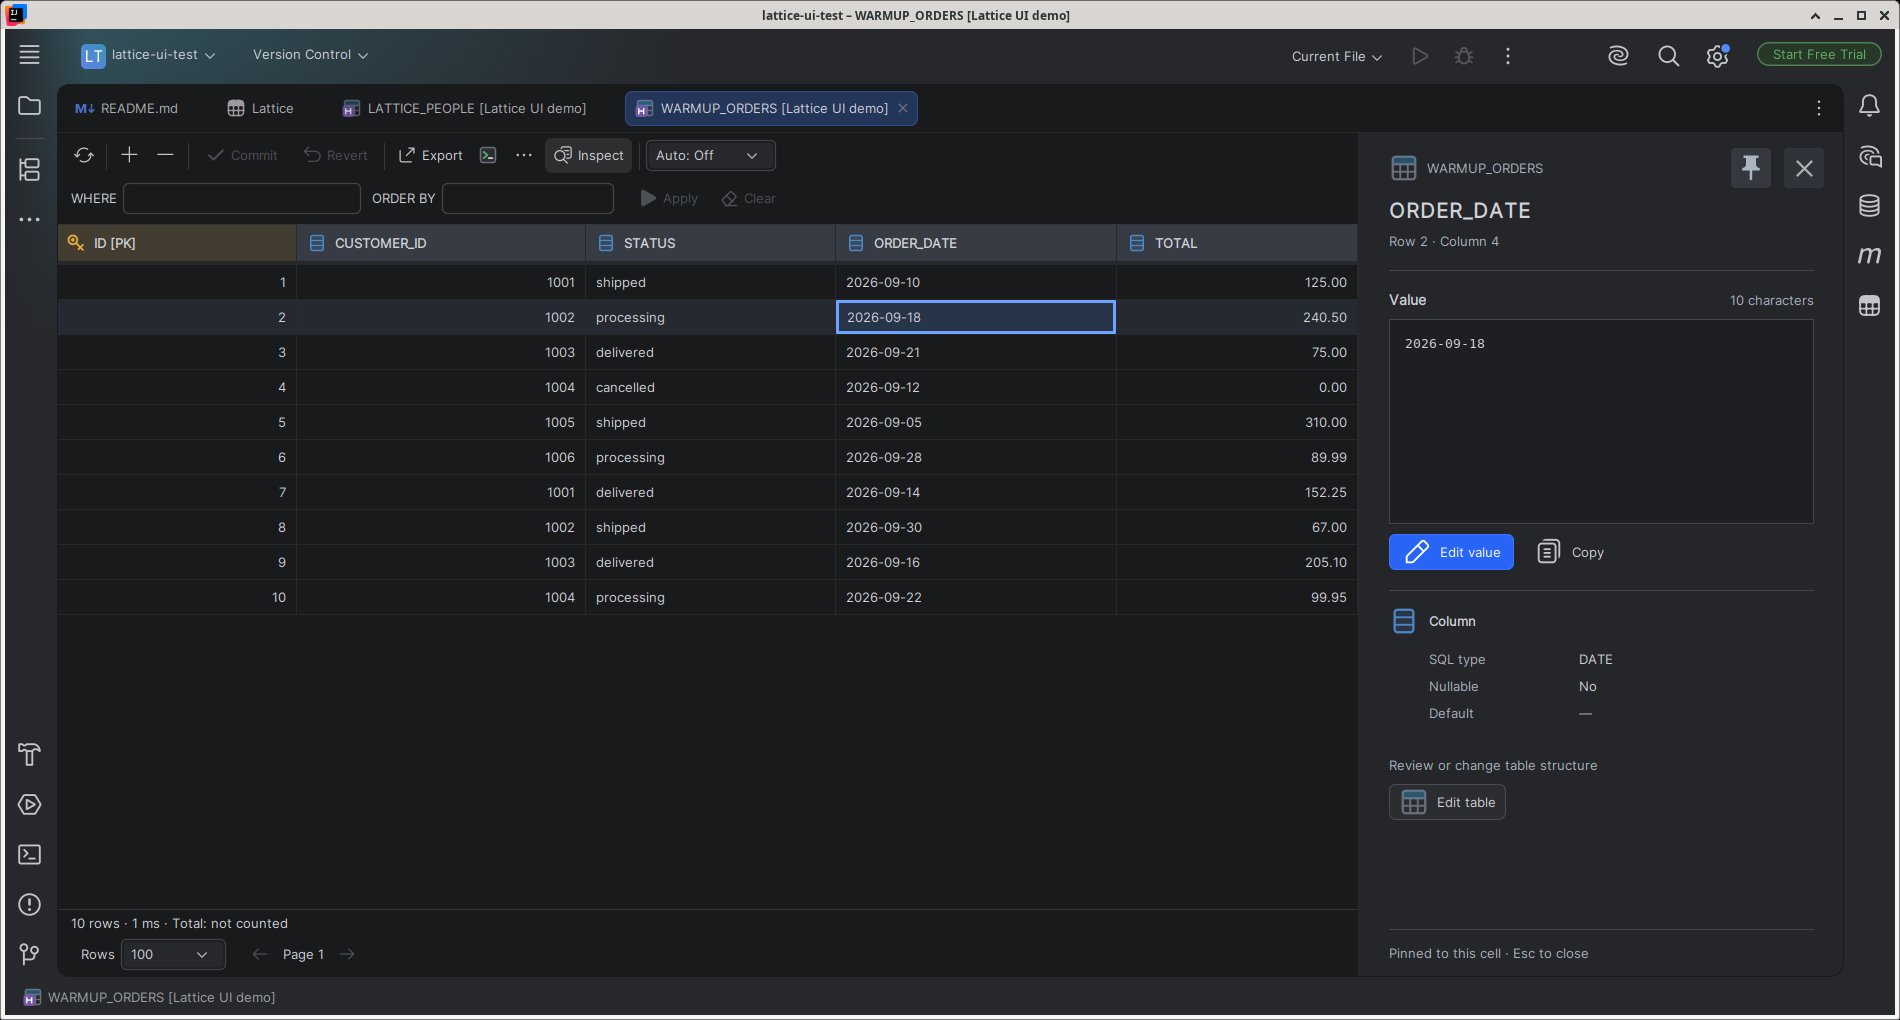
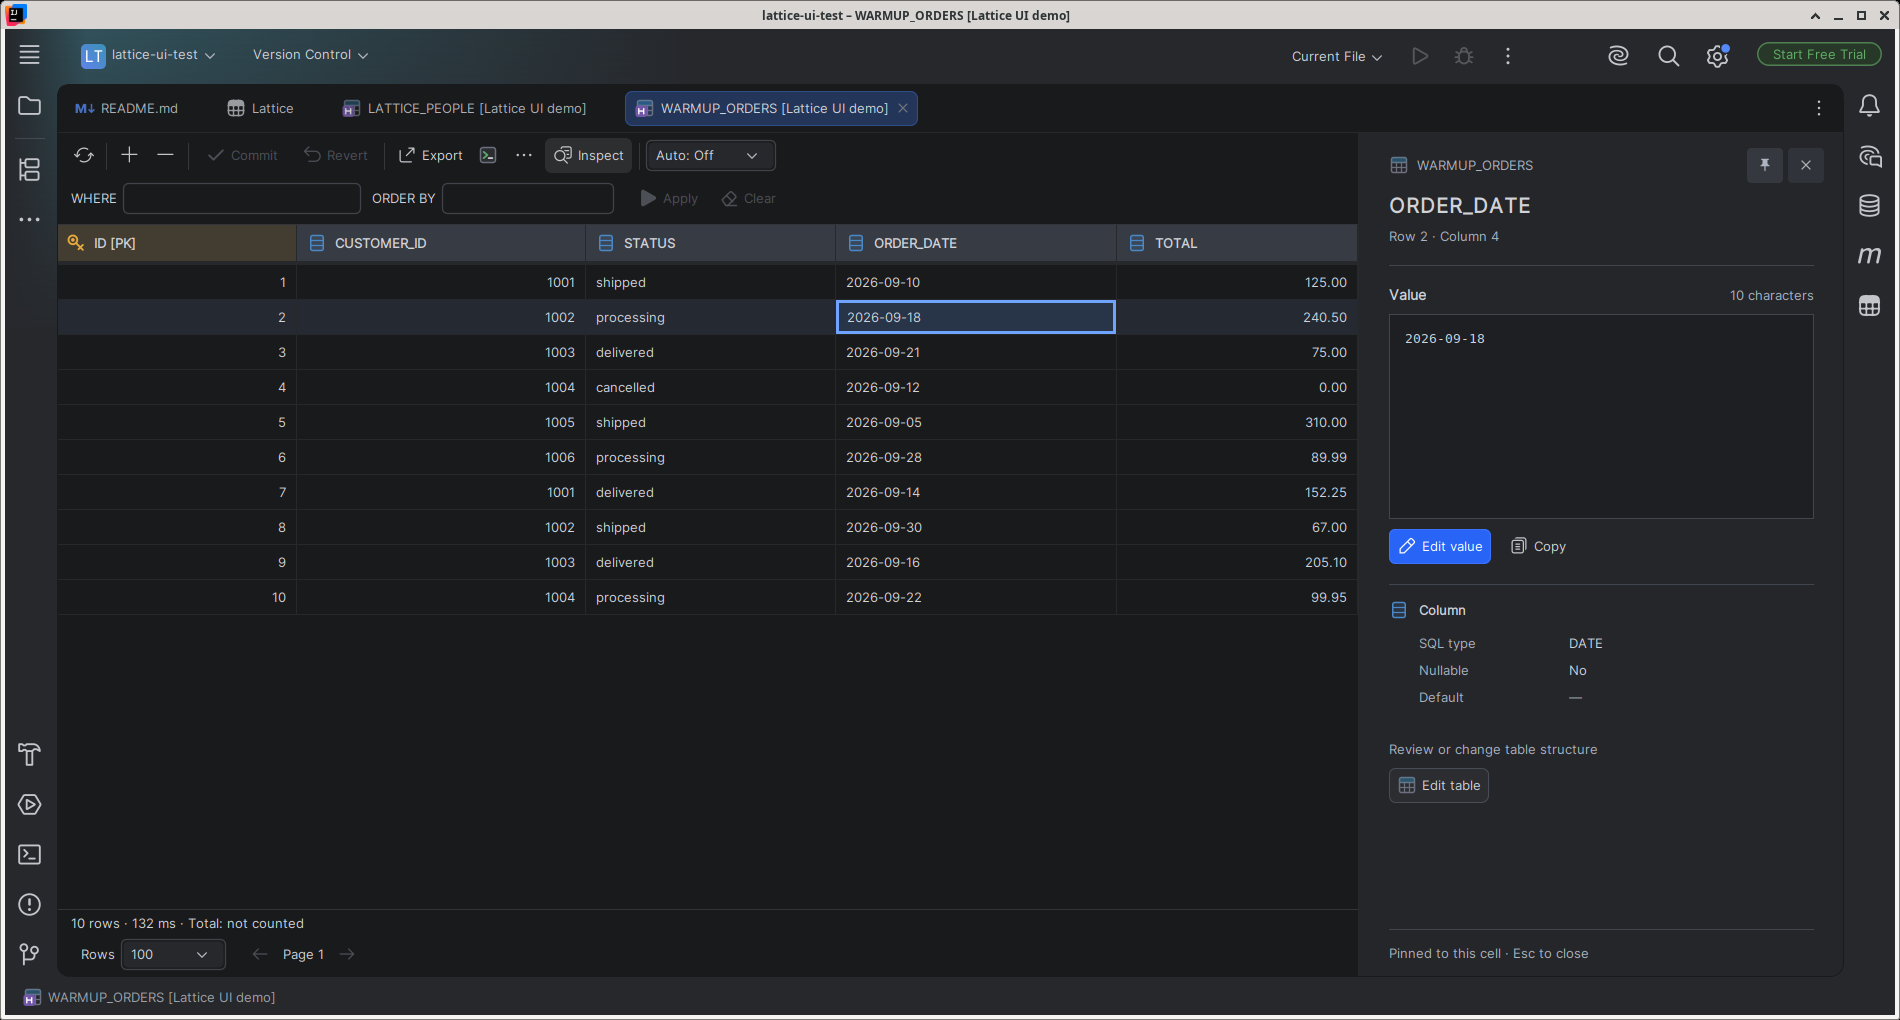
Verify shared table control sizing in native light and dark IDE renders

diff --git a/design-qa.md b/design-qa.md
@@ -1,35 +1,56 @@
 # Cell inspector: table-matched controls
 
-final result: blocked
+final result: passed
 
-Implementation and component checks are complete. Native IDEA light/dark comparison is running; final sign-off awaits its geometry assertions and captured evidence.
+The inspector now uses the table viewer's standard icon canvases, action heights, padding and icon-to-text spacing. The final native Light/Islands Dark comparisons and exact geometry assertions pass. No actionable P0/P1/P2 findings remain for this sizing correction.
 
-## Requested correction
+## Reference and scope
 
-The user flagged the inspector icons and controls as larger than those in the table viewer. This supersedes the earlier enlarged-icon request. The table viewer is the sizing reference: standard 16-logical-pixel icons and 28-logical-pixel minimum controls, with four-pixel vertical/six-pixel horizontal padding and a four-pixel native icon-to-text gap.
+The user's latest request makes the existing table viewer the sizing reference and supersedes the earlier enlarged-icon request. The approved inspector structure, rounded actions, gray selected pin, visible column metadata and row/column-only subtitle remain the layout reference. Native IDE typography continues to apply.
 
-## Changes and current verification
+The comparison state is WARMUP_ORDERS / ORDER_DATE / 2026-09-18 / Row 2 · Column 4 / pinned. Before and after use identical viewport, content, theme, UI zoom and device scale. Hover checks use a separate capture of that same state with close hovered.
 
-- Removed the inspector's 1.5x Edit/Copy/table/column, 1.75x close and 2x selected-pin enlargement. Both pin states use the standard canvas and retain a filled gray selected pin.
-- Shared the table toolbar's actual padding, margin, icon gap and preferred-size calculation in `DatabaseUi`. Inspector surfaces retain rounded painting and native button semantics.
-- Header pin/close targets now use the same compact dimensions as table icon actions, with four logical pixels between them. Both remain right-aligned inside the header's paint bounds.
-- Reduced metadata indentation to align with the now-standard column icon and label. Existing content margins, typography, visible metadata, editing and draft behavior are preserved.
-- All 215 ordinary tests pass, including equality against actual table toolbar buttons at 100%, 125% and 150% UI scale, both pin states and ancestor clipping checks. The pinned glyph is compared to its original artwork, since core icons can remain fixed-size placeholders in headless tests; native checks compare actual controls directly.
-- All 30 production Swing preview states pass; before/after comparisons opened together in light and dark. Plugin build and archive validation pass.
+## Findings and changes
 
-## Opened evidence
+- **P2 — inspector icons exceeded table icons.** Removed 1.5x Edit/Copy/table/column, 1.75x close and 2x selected-pin enlargement. All use their original 16-logical-pixel canvases, including the existing JetBrains filled pin artwork. Both pin states retain a stable control footprint.
+- **P2 — independent button padding made the inspector controls inconsistent.** Inspector and table actions now share `DatabaseUi` padding, margin, icon gap and preferred-size calculation: four logical pixels vertically, six horizontally, zero extra Swing margin, and a 28-logical-pixel minimum. Rounded painting, keyboard semantics and native fonts remain intact.
+- **P2 — header targets exceeded table action sizing.** Pin and close use the same compact calculation as table icon actions, with four logical pixels between them. Both remain right-aligned within real header layout space; their full hover backgrounds fit every ancestor.
+- **P2 — metadata alignment depended on enlarged icons.** Reduced metadata indentation from 32 to 24 logical pixels so its text aligns with the standard column icon and section label. Existing content margins and balanced section spacing remain.
+- **Native iteration — theme installation changed the text gap.** The first native run passed Edit icon/height checks, then caught a one-physical-pixel gap mismatch at 125% IDE zoom. IDEA's Darcula button UI explicitly resets this gap to four logical pixels when installing a theme; the previous action factory used five. Table and inspector now use the native four-pixel standard directly. The exact gap assertion remains; the final run passes in both themes.
 
-- Same 388 × 730 viewport/state, 100% UI/device scale, ORDER_DATE / Row 2 · Column 4 / pinned / close hovered: [light comparison](docs/design/cell-inspector-qa/standard-actions-light-comparison.png), [dark comparison](docs/design/cell-inspector-qa/standard-actions-dark-comparison.png).
-- Previous Windows typography, hover and compact-spacing review is archived in [the earlier report](docs/design/cell-inspector-qa/design-qa-before-standard-actions.md).
+## Final native measurements
 
-## Native iteration
+IDEA 2026.2.3 build 262.10968.63 with JBR 25.0.4+1-b508.27, 1920 × 1080 desktop, UI geometry scale 1.25 and device scale 1.0. These are physical screenshot pixels, measured from the running components in both themes:
 
-The first live run passed icon-size and control-height comparisons, then caught a one-physical-pixel icon-to-text gap mismatch at 125% IDE zoom. IDEA's Darcula button UI explicitly resets the table action gap to four logical pixels when installing a theme; the previous factory used five. Both table and inspector now use IDEA's four-pixel standard directly. The exact native gap assertion remains in place for both themes.
+| Control | Height | Icon canvas | Icon-to-text gap |
+| --- | --- | --- | --- |
+| Table Inspect reference | 35 | 20 × 20 | 5 |
+| Edit value | 35 | 20 × 20 | 5 |
+| Copy | 35 | 20 × 20 | 5 |
+| Edit table | 35 | 20 × 20 | 5 |
+| Selected pin | 35 | 20 × 20 | 5 |
+| Close | 35 | 20 × 20 | 5 |
 
-## Native check pending
+The pin/close targets measure 36 × 35 because each six-logical-pixel horizontal inset rounds separately at 125% zoom; the table icon actions use the same calculation. IDE and inspector label/value/button text all report 13 pt in this Linux capture. Tests also inject scaled native fonts and confirm inheritance without added points.
 
-The native scenario uses IDEA 2026.2.3 build 262.10968.63 with JBR 25.0.4+1-b508.27 at 1920 × 1080, 125% IDE geometry scale and 100% device scale. It compares Edit/Copy/Edit table/pin/close icon sizes, action heights and icon-to-text gaps directly to the table's Inspect control in Light and Islands Dark. It also checks full header visibility and native font inheritance.
+## Opened visual evidence
 
-Actual Windows execution is unavailable; the same IDE/JBR build runs here on Linux. Windows device scaling and font rasterization remain platform-specific.
+- Native before/after panels, identical viewport and state: [Light](docs/design/cell-inspector-qa/standard-native-light-comparison.png), [Islands Dark](docs/design/cell-inspector-qa/standard-native-dark-comparison.png). Both source and revised production UI were opened together; the oversized glyphs and action widths are corrected.
+- Full native IDE captures showing inspector controls beside the table toolbar: [Light](docs/design/cell-inspector-native-125-light.png), [Islands Dark](docs/design/cell-inspector-native-125-dark.png). Each is the complete 1900 × 1020 IDE window, cropped only to remove surrounding desktop pixels.
+- Full close-hover captures: [Light](docs/design/cell-inspector-native-125-light-close-hover.png), [Islands Dark](docs/design/cell-inspector-native-125-dark-close-hover.png).
+- Focused hover evidence, enlarged two times with nearest-neighbor pixels: [Light](docs/design/cell-inspector-qa/standard-native-light-header.png), [Islands Dark](docs/design/cell-inspector-qa/standard-native-dark-header.png). The right-side tooltip area is included; the full close surface is visible.
+- Native inspector bounds are `(1369,152,485,847)` in Light and `(1369,153,485,844)` in Islands Dark, identical before and after. Original desktop captures are under `build/ui-native-standard-actions-final/ExperimentalLight/`.
+- Exact measurements: [Light](docs/design/cell-inspector-qa/standard-native-light-metrics.txt), [Islands Dark](docs/design/cell-inspector-qa/standard-native-dark-metrics.txt). [IDE/JBR and interaction evidence](docs/design/cell-inspector-native-125-evidence.txt).
+- Component comparisons, same 388 × 730 viewport and 100% UI/device scale: [Light](docs/design/cell-inspector-qa/standard-actions-light-comparison.png), [Dark](docs/design/cell-inspector-qa/standard-actions-dark-comparison.png). These were opened before the native comparison.
+- The preceding Windows typography, hover and compact-spacing review is preserved in [the historical report](docs/design/cell-inspector-qa/design-qa-before-standard-actions.md).
 
-final result: blocked
+## Validation and limits
+
+- 215 ordinary tests passed with zero failures, errors or skips. Geometry tests compare inspector actions against actual table button factories at 100%, 125% and 150% scale and restore global font/scale settings. The selected pin is compared to its original artwork because core icons can remain fixed-size placeholders in headless tests; the native checks compare real controls directly.
+- 30 production Swing render/assertion states passed across light/dark, normal/narrow widths, larger fonts, editing, JSON, long metadata and validation.
+- Final native scenario passed in both themes: exact action-height/icon-size/gap equality, native font inheritance, full header visibility, cell/header pinning, double-click editing, close/reopen behavior and theme switching.
+- Plugin build, exact archive validation, documentation links and whitespace checks passed.
+
+Actual Windows execution is unavailable. The native captures use Linux with the same IDE and JBR build shown in the user's Windows report; OS font rasterization and device scaling remain platform-specific. Sizing follows the same IDE fonts, icons and shared geometry so those settings apply consistently.
+
+final result: passed
